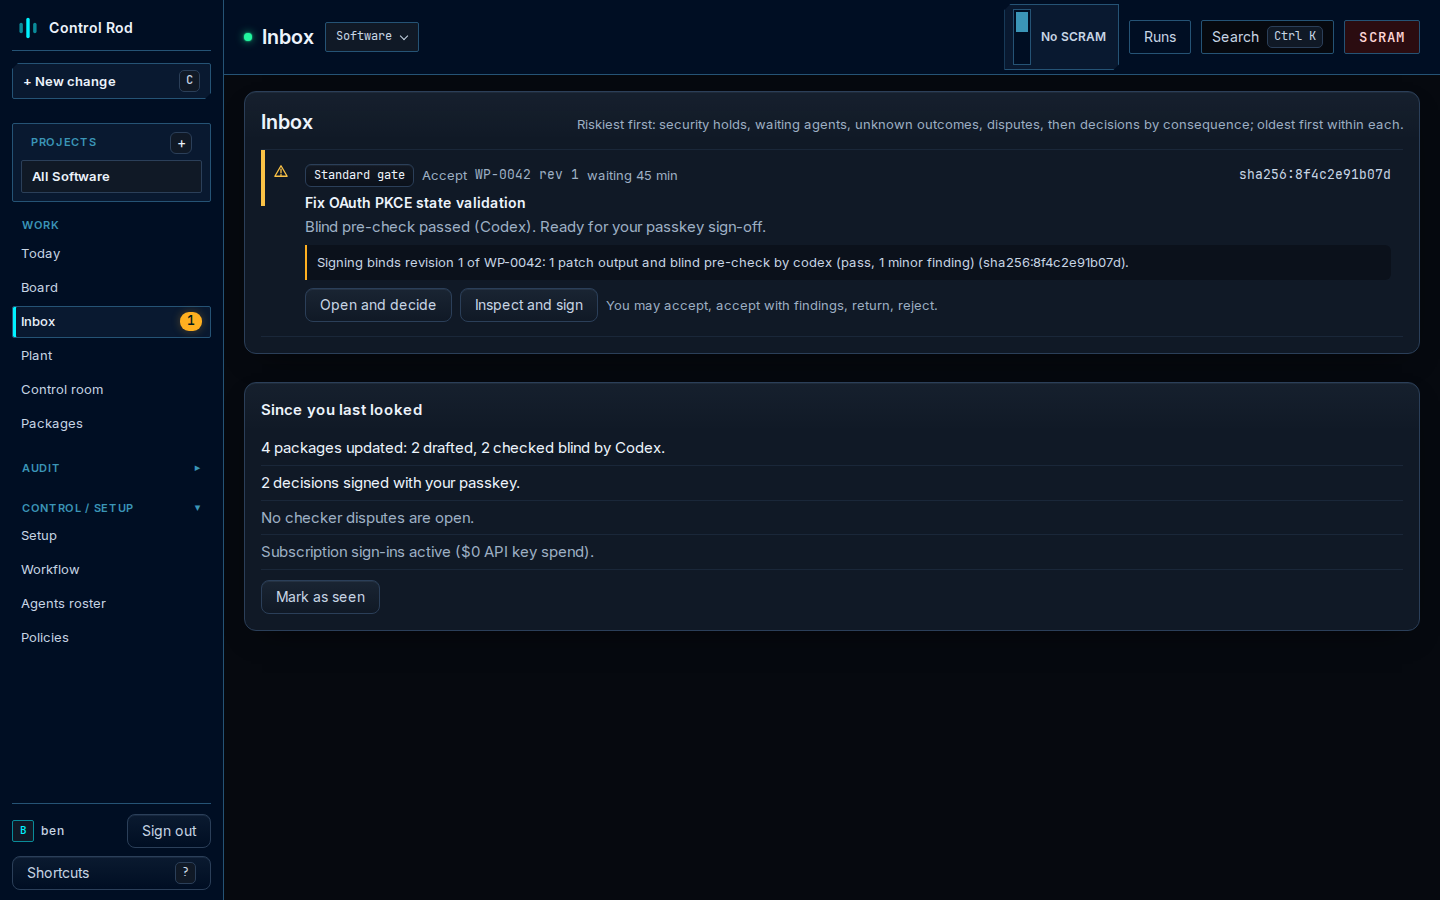
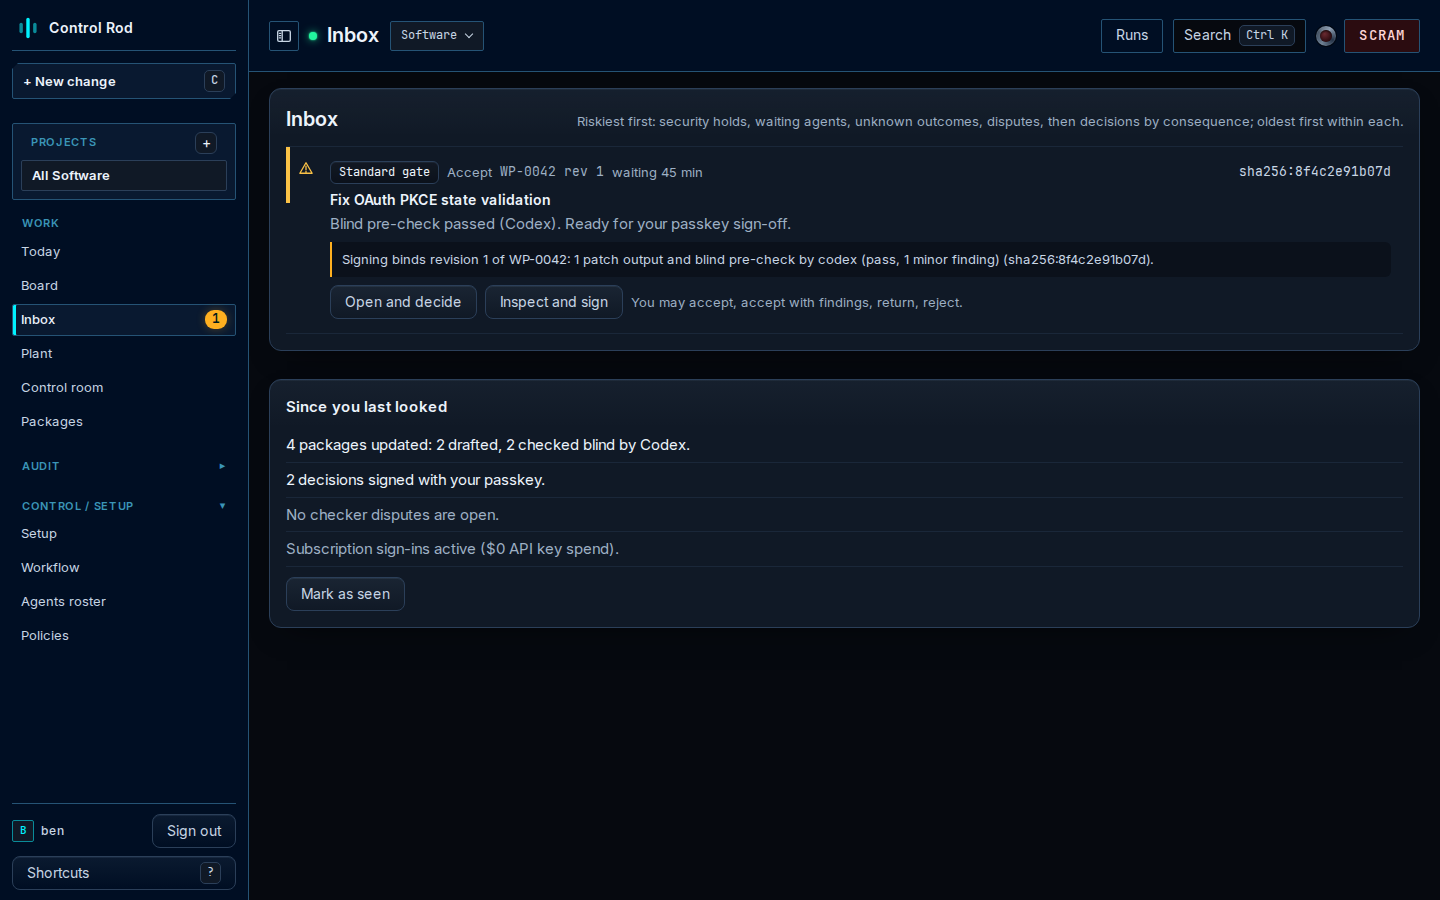
Refresh the README and website tour screenshots (#212)
* Board: a failed run says what happened and offers Run again

A card whose newest author or pre-check run failed, was stopped or was
lost now reads 'The check could not finish. Run it again' with the
runner's error under it and a Run again button, instead of 'Needs you:
Return for revision'. A run whose outcome is unknown sends the person to
its run log first.

Claude-Session: https://claude.ai/code/session_01WRW9hbXhz7HgSQkBFuSFSx

* Board: a guided first run with one clear next step

Five steps from choosing agents to an accepted change, each ticked from
real state, with one primary button for the next step only. Closes when
a change is accepted or the person hides it. The empty-board copy now
says what happens.

Claude-Session: https://claude.ai/code/session_01WRW9hbXhz7HgSQkBFuSFSx

* Live suites: the scripted intake honors the board's [mode:...] tag

The fake intake always drafted Capital Projects packages, so a card added
on the Software board vanished after intake and the @functional
lifecycle test failed on main. It now reads the tag as the real intake
role does.

Claude-Session: https://claude.ai/code/session_01WRW9hbXhz7HgSQkBFuSFSx

* Change record: fix escaped backticks

Claude-Session: https://claude.ai/code/session_01WRW9hbXhz7HgSQkBFuSFSx

* New change dialog in plain words, and say when it can't end in a PR

Claude-Session: https://claude.ai/code/session_01WRW9hbXhz7HgSQkBFuSFSx
[…]

diff --git a/site/app.js b/site/app.js
@@ -382,7 +382,7 @@ bytes of the diff and test output alone.`;
   const SHOTS = {
     board: {
       src: "./assets/readme/app/board.png",
-      alt: "The Control Rod Board with cards across Ready, Implementing, CI / Agent check, Peer review, Needs signature, and Accepted.",
+      alt: "The Control Rod Board with cards across Ready, Agent working, Being checked, Needs a reviewer, Ready to accept, and Accepted.",
       title: "The Board — calm when healthy, unmistakable when waiting on you",
       desc: "Cards move left to right only through signed decisions and recorded checks. Items waiting on you sort to the top in warm amber; healthy work stays quiet.",
       route: "Route: /",

diff --git a/apps/web/src/lib/next.ts b/apps/web/src/lib/next.ts
@@ -84,7 +84,7 @@ export function runLine(run: Run | undefined): NextLine {
   if (!run) return { tone: "wait", text: "Author running" };
   const label = run.label?.trim();
   if (run.status === "running") {
-    return { tone: "wait", text: label && label.length > 0 ? label : `${RUN_ROLE_WORD[run.role]} running`, ...(run.started_at ? { since: run.started_at } : {}) };
+    return { tone: "wait", text: label && label.length > 0 ? label : `${RUN_ROLE_WORD[run.role] ?? "Agent"} running`, ...(run.started_at ? { since: run.started_at } : {}) };
   }
   return { tone: "wait", text: label && label.length > 0 ? label : `${RUN_ROLE_WORD[run.role]} queued` };
 }

diff --git a/site/index.html b/site/index.html
@@ -500,7 +500,7 @@ pnpm cr start         # opens the Control Rod workspace at http://localhost:7300
           <img
             id="tour-img"
             src="./assets/readme/app/board.png"
-            alt="The Control Rod Board: cards move from Ready through Implementing, CI / Agent check, Peer review, and Needs signature to Accepted."
+            alt="The Control Rod Board: cards move from Ready through Agent working, Being checked, Needs a reviewer, and Ready to accept to Accepted."
           />
           <div class="shot-meta">
             <div>

diff --git a/apps/web/e2e/readme-shots.spec.ts b/apps/web/e2e/readme-shots.spec.ts
@@ -408,7 +408,7 @@ async function mockBoard(page: import("@playwright/test").Page) {
             id: `R-${id}`,
             package_id: id,
             package_revision: 1,
-            role: id === "WP-0035" ? "checker" : "author",
+            role: id === "WP-0035" ? "pre-check" : "author",
             status: "running",
             round: 1,
             agent_baseline: id === "WP-0035" ? "checker-codex" : "software-author",

diff --git a/.nuclear/changes/tour-shots-refresh/verification.md b/.nuclear/changes/tour-shots-refresh/verification.md
@@ -1,0 +1,32 @@
+# Verification: Refresh the README and website tour screenshots
+
+- E-01: `THEME_TEST_RELEASE=true SHOTS_DIR=... playwright test e2e/readme-shots.spec.ts --project=chromium` passes; six pictures checked by eye.
+- E-02: `node --test scripts/test/site.test.mjs`: 4 pass.
+- E-03: web `vitest run src/lib`: 194 pass.
+- Blind check: Codex GitHub review of 886ef21 (the readme-shots workflow's own pictures, matching the local ones by eye): no findings.
+
+## Evidence custody and coupling
+
+| Evidence ID | Claim ID | Decisive? | Artifact / raw result | Change actor | Generated by | Selected by | Transformed / summarized by | Executed / captured by | Retained by | Presented by | Verified / witnessed by |
+|---|---|---|---|---|---|---|---|---|---|---|---|
+| E-01 | TS-01 | yes | docs/assets/readme/app/*.png | Implementing agent | Playwright readme-shots spec | Implementing agent | Implementing agent | Local toolchain | This repository | Implementing agent | Self-check |
+| E-02 | TS-02 | yes | node test output in the PR session | Implementing agent | node --test | Implementing agent | Implementing agent | Local toolchain | PR checks | Implementing agent | Self-check |
+| E-03 | TS-03 | yes | vitest output in the PR session | Implementing agent | vitest | Implementing agent | Implementing agent | Local toolchain | PR checks | Implementing agent | Self-check |
+
+| Evidence ID | Actor | Context | Mechanism | Authority | Resource | Classification | Admissibility / residual-risk disposition |
+|---|---|---|---|---|---|---|---|
+| E-01 | coupled: implementing agent | coupled: implementation session | separated: deterministic release build and fixtures | separated: owner retains merge decision | coupled: local machine | self-check | sample fixtures, Chromium only  [Ship limits](ship.md) |
+| E-02 | coupled: implementing agent | coupled: implementation session | separated: deterministic local test tools | separated: owner retains merge decision | coupled: local machine | self-check | static page checks  [Ship limits](ship.md) |
+| E-03 | coupled: implementing agent | coupled: implementation session | separated: deterministic local test tools | separated: owner retains merge decision | coupled: local machine | self-check | jsdom  [Ship limits](ship.md) |
+
+## Required links
+
+[Risk](risk.md), [basis](basis.md), [plan](plan.md), [trace](trace.md), [verification](verification.md), [ship](ship.md).
+
+## Exit criteria
+
+The README and website tour pictures come from the current main (plain column names, calm drawer, resizable rail, one SCRAM button), the board alt text names the columns the picture shows, and no card reads "undefined running". The shots spec, site tests and web lib tests pass.
+
+## Source-lineage note
+
+Local engineering evidence using the repository workflow, not a compliance certification. Workflow source map: https://github.com/FlyFission/nuclear-grade-context-engineering/blob/main/docs/00-standards-foundation/source-map.md.

diff --git a/.nuclear/changes/tour-shots-refresh/basis.md b/.nuclear/changes/tour-shots-refresh/basis.md
@@ -1,0 +1,32 @@
+# Basis: Refresh the README and website tour screenshots
+
+**Change slug:** `tour-shots-refresh`
+**Owner:** Ben Huffer
+**Date:** 2026-11-25
+**Status:** Built, for owner review.
+
+## Mission / need
+
+The PR #194 blind check found the website tour still showed the old Software column names. The coordinator asked for a refresh once the drawer (#195), rail (#192) and SCRAM (#190) changes were on main; all three merged by 2026-11-25 03:45 UTC.
+
+## Proposal
+
+1. Retake all six tour pictures with the existing `apps/web/e2e/readme-shots.spec.ts` (release build, recorded sample fixtures) and store them in `docs/assets/readme/app/`.
+2. Update the board's alt text in README.md, site/index.html and site/app.js to the plain column names.
+3. The spec's sample pre-check run used role `checker`, which is not a run role, so the card read "undefined running". Use `pre-check`, and give the status line a fallback word ("Agent running") for any role it does not know.
+
+## Out of scope
+
+`.github/`, `spec/`, `services/`, `daemon/`, `kernel/`, `policies/`.
+
+## Required links
+
+[Risk](risk.md), [basis](basis.md), [plan](plan.md), [trace](trace.md), [verification](verification.md), [ship](ship.md).
+
+## Exit criteria
+
+The README and website tour pictures come from the current main (plain column names, calm drawer, resizable rail, one SCRAM button), the board alt text names the columns the picture shows, and no card reads "undefined running". The shots spec, site tests and web lib tests pass.
+
+## Source-lineage note
+
+Local engineering evidence using the repository workflow, not a compliance certification. Workflow source map: https://github.com/FlyFission/nuclear-grade-context-engineering/blob/main/docs/00-standards-foundation/source-map.md.

diff --git a/README.md b/README.md
@@ -11,7 +11,7 @@
 
 **Control Rod** is a free, open-source multi-agent harness that runs on your own machine. Bring the command-line subscriptions you already pay for (**Claude Code** and **Codex** today, with zero API keys and zero cloud account), drop in what you want built, and let one agent work inside an isolated git worktree while a **different vendor's agent** checks only the diff and test evidence behind a blind wall. A deterministic **Rust/WASM kernel** decides every state transition, your passkey signs at release and at acceptance, and each accepted change exports a tamper-evident **PR receipt** anyone can verify offline.
 
-![The Control Rod Board: cards move from Ready through Implementing, CI / Agent check, Peer review, and Needs signature to Accepted, with warm amber reserved only for cards waiting on you.](docs/assets/readme/app/board.png)
+![The Control Rod Board: cards move from Ready through Agent working, Being checked, Needs a reviewer, and Ready to accept to Accepted, with warm amber reserved only for cards waiting on you.](docs/assets/readme/app/board.png)
 
 ![Control Rod multi-agent council loop: your passkey release feeds an isolated author worktree, crosses a blind wall that strips author reasoning, enters a cross-vendor blind checker, and seals an offline-verifiable PR receipt under Rust/WASM kernel custody.](docs/assets/readme/council-loop.svg)
 

diff --git a/.nuclear/changes/tour-shots-refresh/ship.md b/.nuclear/changes/tour-shots-refresh/ship.md
@@ -1,0 +1,22 @@
+# Ship: Refresh the README and website tour screenshots
+
+Release decision: **approved by the owner, 2026-11-25 11:10 UTC.**
+
+## Signature
+
+Owner (sole maintainer): Ben Huffer, yes, by decision card "Merge PR 212 (refreshed tour screenshots) into main?" in the project thread, 2026-11-25 11:10 UTC. Blind check: Codex GitHub review, no findings.
+
+- Rollback: revert the merge. No data, route or migration.
+- Monitoring after merge: the README and the site tour show the plain column names and the current top bar; the readme-shots workflow may push the same pictures again on this PR.
+
+## Required links
+
+[Risk](risk.md), [basis](basis.md), [plan](plan.md), [trace](trace.md), [verification](verification.md), [ship](ship.md).
+
+## Exit criteria
+
+The README and website tour pictures come from the current main (plain column names, calm drawer, resizable rail, one SCRAM button), the board alt text names the columns the picture shows, and no card reads "undefined running". The shots spec, site tests and web lib tests pass.
+
+## Source-lineage note
+
+Local engineering evidence using the repository workflow, not a compliance certification. Workflow source map: https://github.com/FlyFission/nuclear-grade-context-engineering/blob/main/docs/00-standards-foundation/source-map.md.

diff --git a/.nuclear/changes/tour-shots-refresh/trace.md b/.nuclear/changes/tour-shots-refresh/trace.md
@@ -1,0 +1,19 @@
+# Trace: Refresh the README and website tour screenshots
+
+| Claim ID | Need | Code | Test |
+| --- | --- | --- | --- |
+| TS-01 | Current tour pictures | `docs/assets/readme/app/*.png`, `apps/web/e2e/readme-shots.spec.ts` | readme-shots spec |
+| TS-02 | Alt text matches the picture | `README.md`, `site/index.html`, `site/app.js` | `scripts/test/site.test.mjs` |
+| TS-03 | No "undefined running" | `apps/web/src/lib/next.ts` | web `src/lib` vitest |
+
+## Required links
+
+[Risk](risk.md), [basis](basis.md), [plan](plan.md), [trace](trace.md), [verification](verification.md), [ship](ship.md).
+
+## Exit criteria
+
+The README and website tour pictures come from the current main (plain column names, calm drawer, resizable rail, one SCRAM button), the board alt text names the columns the picture shows, and no card reads "undefined running". The shots spec, site tests and web lib tests pass.
+
+## Source-lineage note
+
+Local engineering evidence using the repository workflow, not a compliance certification. Workflow source map: https://github.com/FlyFission/nuclear-grade-context-engineering/blob/main/docs/00-standards-foundation/source-map.md.

diff --git a/.nuclear/changes/tour-shots-refresh/risk.md b/.nuclear/changes/tour-shots-refresh/risk.md
@@ -1,0 +1,22 @@
+# Risk: Refresh the README and website tour screenshots
+
+- Pictures are binary and reviewed by eye; a wrong picture misleads readers but changes no behaviour.
+- The status-line fallback only changes text for a role the web does not know.
+- No trust surface is touched.
+
+## Selected mode
+
+- **Mode:** Standard
+- Basis: docs pictures, alt text and a one-word fallback; reversible by revert.
+
+## Required links
+
+[Risk](risk.md), [basis](basis.md), [plan](plan.md), [trace](trace.md), [verification](verification.md), [ship](ship.md).
+
+## Exit criteria
+
+The README and website tour pictures come from the current main (plain column names, calm drawer, resizable rail, one SCRAM button), the board alt text names the columns the picture shows, and no card reads "undefined running". The shots spec, site tests and web lib tests pass.
+
+## Source-lineage note
+
+Local engineering evidence using the repository workflow, not a compliance certification. Workflow source map: https://github.com/FlyFission/nuclear-grade-context-engineering/blob/main/docs/00-standards-foundation/source-map.md.

diff --git a/.nuclear/changes/tour-shots-refresh/plan.md b/.nuclear/changes/tour-shots-refresh/plan.md
@@ -1,0 +1,18 @@
+# Plan: Refresh the README and website tour screenshots
+
+1. Fix the sample run role and add the status-line fallback.
+2. Run the readme-shots spec in Chromium; check each picture by eye.
+3. Copy the pictures, update the three alt texts.
+4. Site tests, web lib tests, Codex blind check, owner yes.
+
+## Required links
+
+[Risk](risk.md), [basis](basis.md), [plan](plan.md), [trace](trace.md), [verification](verification.md), [ship](ship.md).
+
+## Exit criteria
+
+The README and website tour pictures come from the current main (plain column names, calm drawer, resizable rail, one SCRAM button), the board alt text names the columns the picture shows, and no card reads "undefined running". The shots spec, site tests and web lib tests pass.
+
+## Source-lineage note
+
+Local engineering evidence using the repository workflow, not a compliance certification. Workflow source map: https://github.com/FlyFission/nuclear-grade-context-engineering/blob/main/docs/00-standards-foundation/source-map.md.
